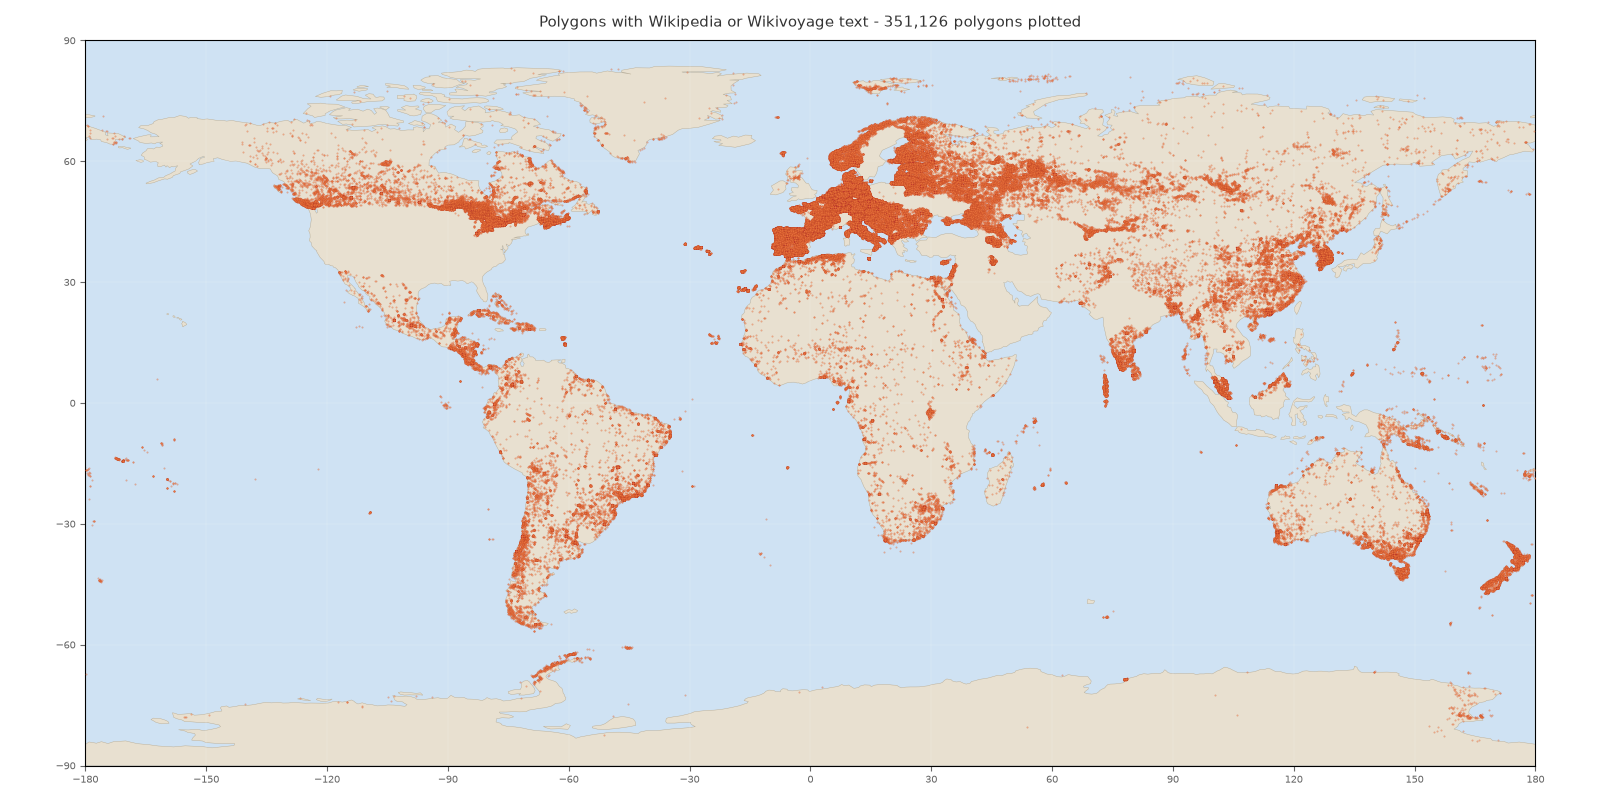
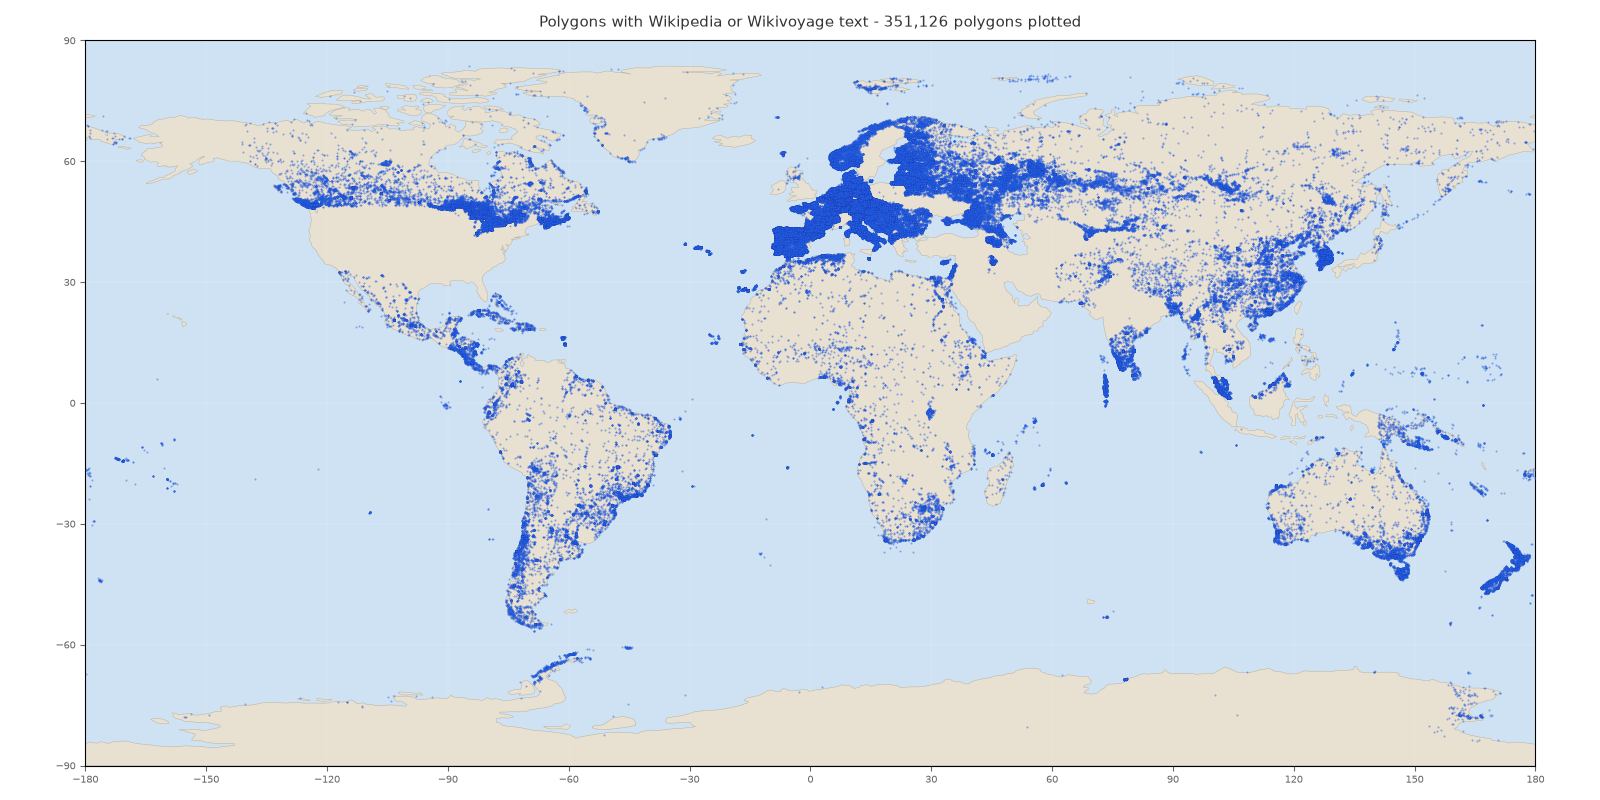
feat(hf): distinguish text map and document continent metrics

diff --git a/tests/hf/test_public_dataset_card_geography.py b/tests/hf/test_public_dataset_card_geography.py
@@ -4,10 +4,13 @@ from __future__ import annotations
 
 from itertools import pairwise
 from pathlib import Path
+from typing import Any
 
 import pyarrow as pa
 import pyarrow.parquet as pq
+import pytest
 
+from osm_polygon_wikidata_only.hf import geographic_text_presence as text_presence_module
 from osm_polygon_wikidata_only.hf._geographic.h3_geometry import split_antimeridian
 from osm_polygon_wikidata_only.hf.continent_stats import (
     assign_continents,
@@ -95,6 +98,35 @@ def test_combined_text_presence_counts_each_polygon_once(tmp_path: Path) -> None
     assert output.read_bytes().startswith(b"\x89PNG")
 
 
+def test_combined_text_map_uses_blue_points_without_changing_default_map(
+    tmp_path: Path, monkeypatch: pytest.MonkeyPatch
+) -> None:
+    processed = tmp_path / "processed"
+    _write(
+        processed / "polygons" / "x.parquet",
+        [{"polygon_id": "p1", "wikidata": "Q1", "lon": 2.0, "lat": 48.0}],
+    )
+    _write(
+        processed / "wikipedia" / "documents" / "x.parquet",
+        [{"article_id": "a1", "wikidata": "Q1", "full_text": "text"}],
+    )
+    _write(
+        processed / "polygon_articles" / "x.parquet",
+        [{"polygon_id": "p1", "article_id": "a1"}],
+    )
+    captured: dict[str, Any] = {}
+
+    def capture_map(*args: Any, **kwargs: Any) -> Path:
+        captured.update(kwargs)
+        return args[2]
+
+    monkeypatch.setattr(text_presence_module, "generate_coverage_map", capture_map)
+    generate_geographic_text_presence(processed, tmp_path / "combined.png")
+
+    assert captured["point_color"] == "#2563EB"
+    assert captured["point_edge"] == "#1E40AF"
+
+
 def test_continent_assignment_and_public_rendering() -> None:
     features = [
         {
@@ -124,6 +156,19 @@ def test_continent_assignment_and_public_rendering() -> None:
     assert "## Geographic distribution by continent" in rendered
     assert "| Africa | 4 | 2 | 3 | 2 | 3 | 75.0% |" in rendered
     assert "augmentation" not in rendered.lower()
+    assert "WGS84 centroid" in rendered
+    assert "Natural Earth 1:110m Admin-0" in rendered
+    assert "`Polygons`" in rendered
+    assert "`Wikipedia documents`" in rendered
+    assert "`Wikivoyage documents`" in rendered
+    assert "`Polygons with Wikipedia text`" in rendered
+    assert "`Polygons with Wikipedia or Wikivoyage text`" in rendered
+    assert "`Text coverage`" in rendered
+    assert "combined text-covered polygons / all dataset polygons" in rendered
+    assert "one continent" in rendered
+    assert "more than one continent" in rendered
+    assert "`Unassigned`" in rendered
+    assert "finalized Parquet tables" in rendered
 
 
 def test_dataset_card_uses_public_language_and_combined_map_first() -> None:

diff --git a/src/osm_polygon_wikidata_only/hf/continent_stats.py b/src/osm_polygon_wikidata_only/hf/continent_stats.py
@@ -57,8 +57,11 @@ def render_continent_stats(rows: Sequence[tuple[str, int, int, int, int, int]]) 
     lines = [
         "## Geographic distribution by continent",
         "",
-        "Polygon centroids are assigned to Natural Earth countries and continents. "
-        "Document counts are distinct within each continent; polygons are counted once.",
+        "This table is recomputed from the finalized Parquet tables before each dataset-card "
+        "publication. Each polygon's WGS84 centroid is spatially matched to the bundled "
+        "Natural Earth 1:110m Admin-0 country boundaries, then assigned the country's "
+        "continent. Because this is a coarse global reference, offshore points and centroids "
+        "outside its country polygons remain `Unassigned` rather than being guessed.",
         "",
         "| Continent | Polygons | Wikipedia documents | Wikivoyage documents | "
         "Polygons with Wikipedia text | Polygons with Wikipedia or Wikivoyage text | Text coverage |",
@@ -70,6 +73,29 @@ def render_continent_stats(rows: Sequence[tuple[str, int, int, int, int, int]]) 
             f"| {continent} | {polygons:,} | {wikipedia_docs:,} | {voyage_docs:,} | "
             f"{wiki_polygons:,} | {combined:,} | {rate:.1%} |"
         )
+    lines.extend(
+        [
+            "",
+            "**Metric definitions:**",
+            "",
+            "- `Polygons`: dataset polygons whose centroid is assigned to the continent. "
+            "Every polygon appears in exactly one continent row, including `Unassigned`.",
+            "- `Wikipedia documents`: distinct non-empty Wikipedia documents connected to "
+            "those polygons through `polygon_articles`. A document is counted once within a "
+            "continent, but may appear in more than one continent when linked polygons span "
+            "more than one continent.",
+            "- `Wikivoyage documents`: distinct non-empty Wikivoyage documents whose Wikidata "
+            "entity is shared by a polygon in the continent. The same cross-continent counting "
+            "rule applies.",
+            "- `Polygons with Wikipedia text`: polygons linked to at least one non-empty "
+            "Wikipedia document.",
+            "- `Polygons with Wikipedia or Wikivoyage text`: polygons satisfying the Wikipedia "
+            "condition or sharing a Wikidata entity with at least one non-empty Wikivoyage "
+            "document. Each polygon is counted once.",
+            "- `Text coverage`: `combined text-covered polygons / all dataset polygons` in the "
+            "continent row.",
+        ]
+    )
     return "\n".join(lines) + "\n"
 
 

diff --git a/src/osm_polygon_wikidata_only/hf/coverage_map.py b/src/osm_polygon_wikidata_only/hf/coverage_map.py
@@ -121,6 +121,8 @@ def generate_coverage_map(
     figsize: tuple[float, float] = (16, 8),
     dpi: int = 100,
     point_size: float = _POINT_SIZE,
+    point_color: str = _POINT_COLOR,
+    point_edge: str = _POINT_EDGE,
 ) -> Path:
     """Render the coverage map PNG with one scatter point per polygon.
 
@@ -150,8 +152,8 @@ def generate_coverage_map(
             lons,
             lats,
             s=point_size,
-            c=_POINT_COLOR,
-            edgecolors=_POINT_EDGE,
+            c=point_color,
+            edgecolors=point_edge,
             linewidths=0.1,
             alpha=_POINT_ALPHA,
             zorder=3,

diff --git a/src/osm_polygon_wikidata_only/hf/geographic_text_presence.py b/src/osm_polygon_wikidata_only/hf/geographic_text_presence.py
@@ -123,6 +123,8 @@ def generate_geographic_text_presence(
         output_path,
         land_geojson_path=land_geojson_path,
         title="Polygons with Wikipedia or Wikivoyage text",
+        point_color="#2563EB",
+        point_edge="#1E40AF",
     )
     rate = len(points) / snapshot.polygon_count if snapshot.polygon_count else 0.0
     caption = (